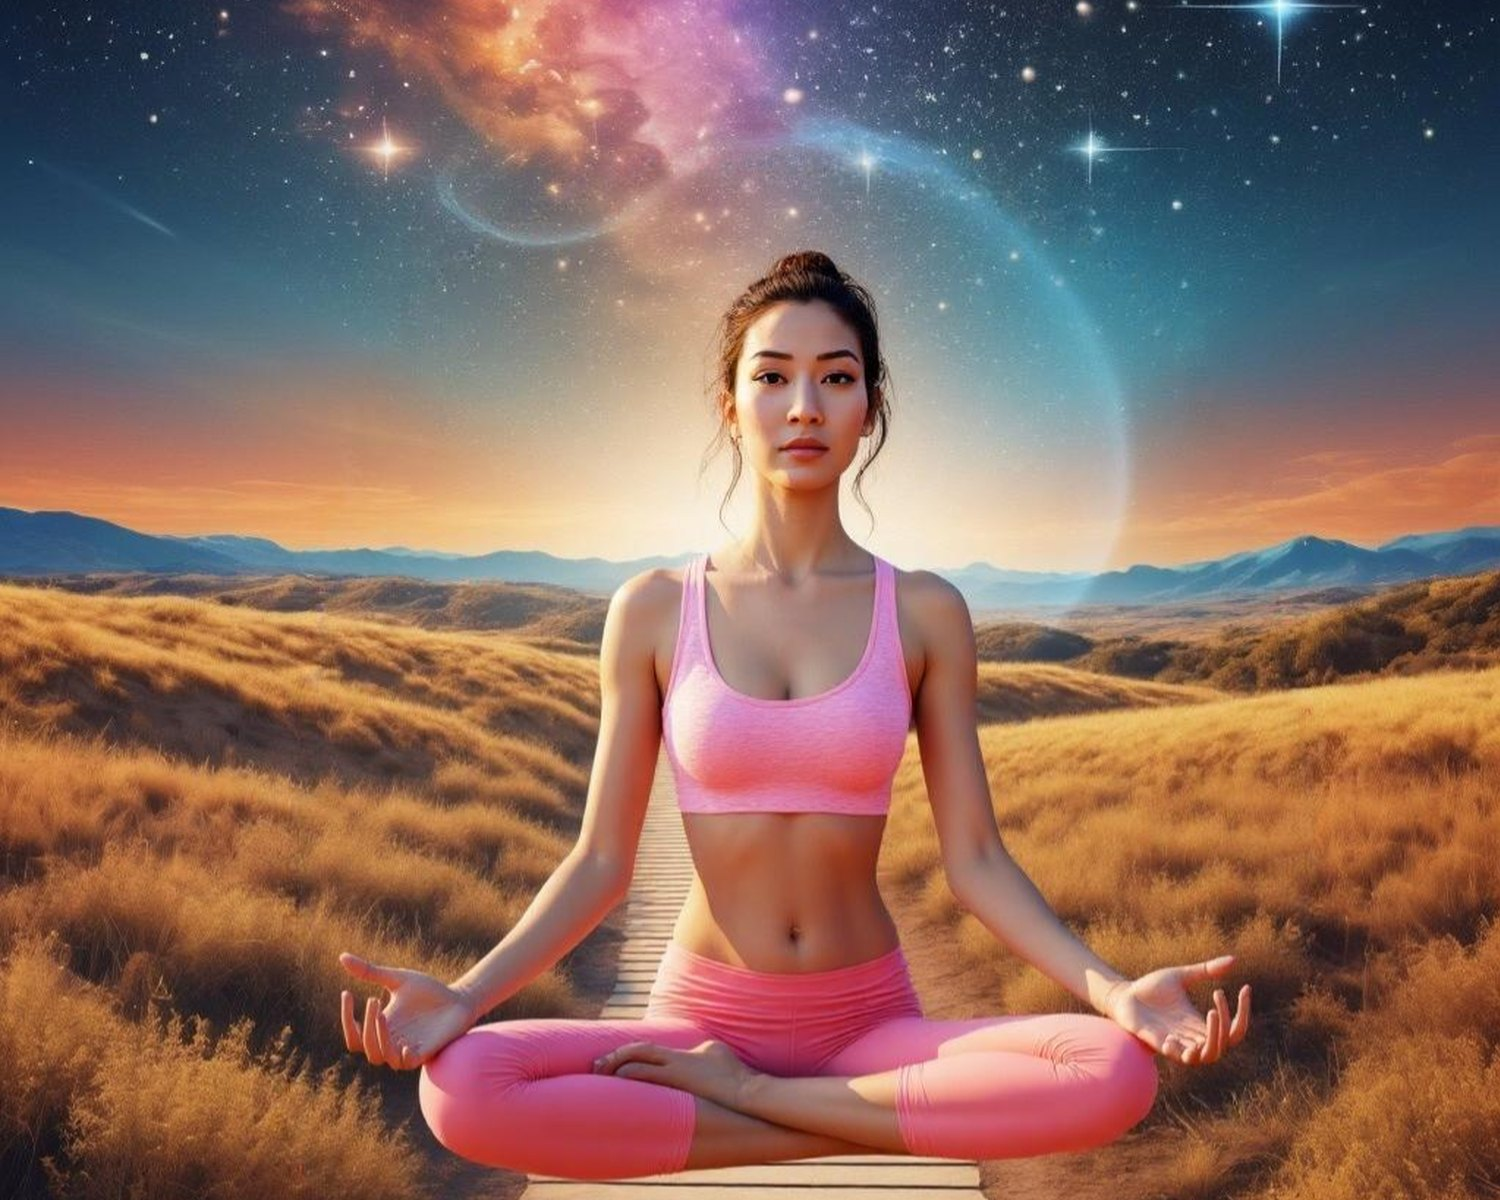
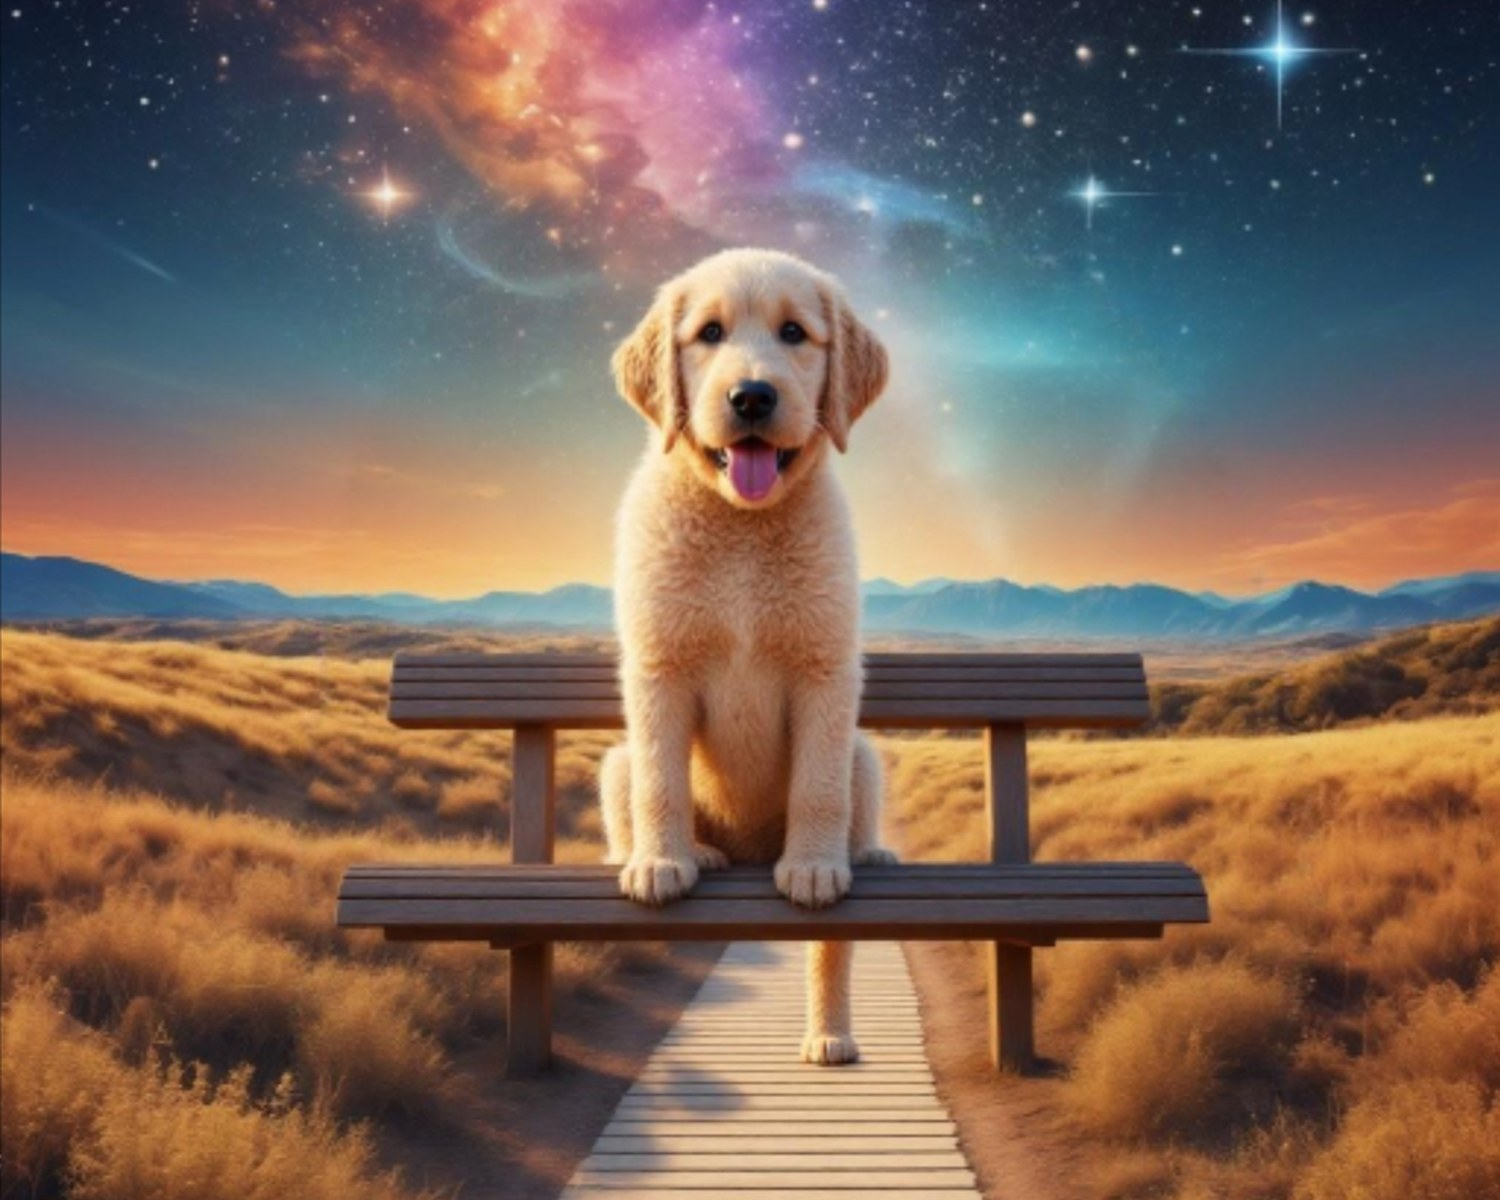
feat: use the canny-guided golden retriever on a bench as the Flux Fill ControlNet project image

diff --git a/app/projects.ts b/app/projects.ts
@@ -388,9 +388,9 @@ export const projects: Project[] = [
     slug: "flux-fill-controlnet-inpainting",
     image: {
       src: "/projects/flux-fill-controlnet-inpainting.jpg",
-      alt: "A woman meditating on a wooden path under a galaxy sky, generated by the Flux Fill ControlNet pipeline from a pose map",
-      label: "pose-guided",
-      caption: "Pipeline output, guided by a pose map. Sample from the pull request.",
+      alt: "A golden retriever sitting on a wooden bench on a path through golden fields under a galaxy sky, generated by the Flux Fill ControlNet pipeline from a canny edge map",
+      label: "canny-guided",
+      caption: "Pipeline output, guided by a canny edge map so the bench keeps its shape. Sample from the pull request.",
     },
     extra: [
       {

diff --git a/app/projects/[slug]/page.tsx b/app/projects/[slug]/page.tsx
@@ -124,7 +124,7 @@ export default async function ProjectPage({ params }: PageProps<"/projects/[slug
           <figure>
             <BBox label={project.image.label} className="mt-6">
               {/* eslint-disable-next-line @next/next/no-img-element */}
-              <img src={project.image.src} alt={project.image.alt} className="aspect-[5/4] w-full object-cover sm:aspect-[16/9]" />
+              <img src={project.image.src} alt={project.image.alt} className="aspect-[5/4] w-full object-cover object-[50%_30%] sm:aspect-[16/9]" />
             </BBox>
             <figcaption className="label mt-4">{project.image.caption}</figcaption>
           </figure>
